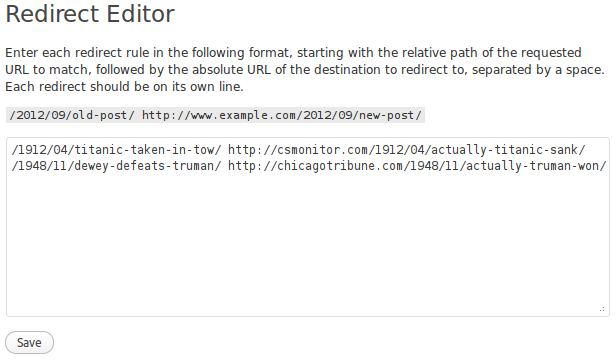
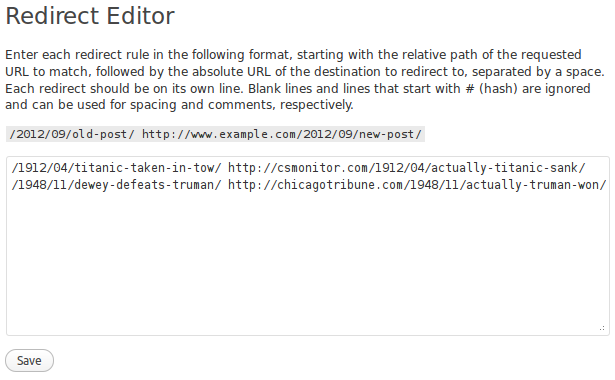
Update explanatory text to include note about # comment lines

diff --git a/form.php b/form.php
@@ -5,7 +5,11 @@
 
 		<?php wp_nonce_field( 'redirect-editor' ); ?>
 		
-		<p>Enter each redirect rule in the following format, starting with the relative path of the requested URL to match, followed by the absolute URL of the destination to redirect to, separated by a space. Each redirect should be on its own line.</p>
+		<p>Enter each redirect rule in the following format, starting with the 
+		relative path of the URL to match, followed by the absolute URL of the 
+		destination to redirect to, separated by a space. Each redirect should 
+		be on its own line. Blank lines and lines that start with # (hash) are 
+		ignored and can be used for spacing and comments.</p>
 
 		<p><pre><code>/2012/09/old-post/ http://www.example.com/2012/09/new-post/</code></pre></p>
 
